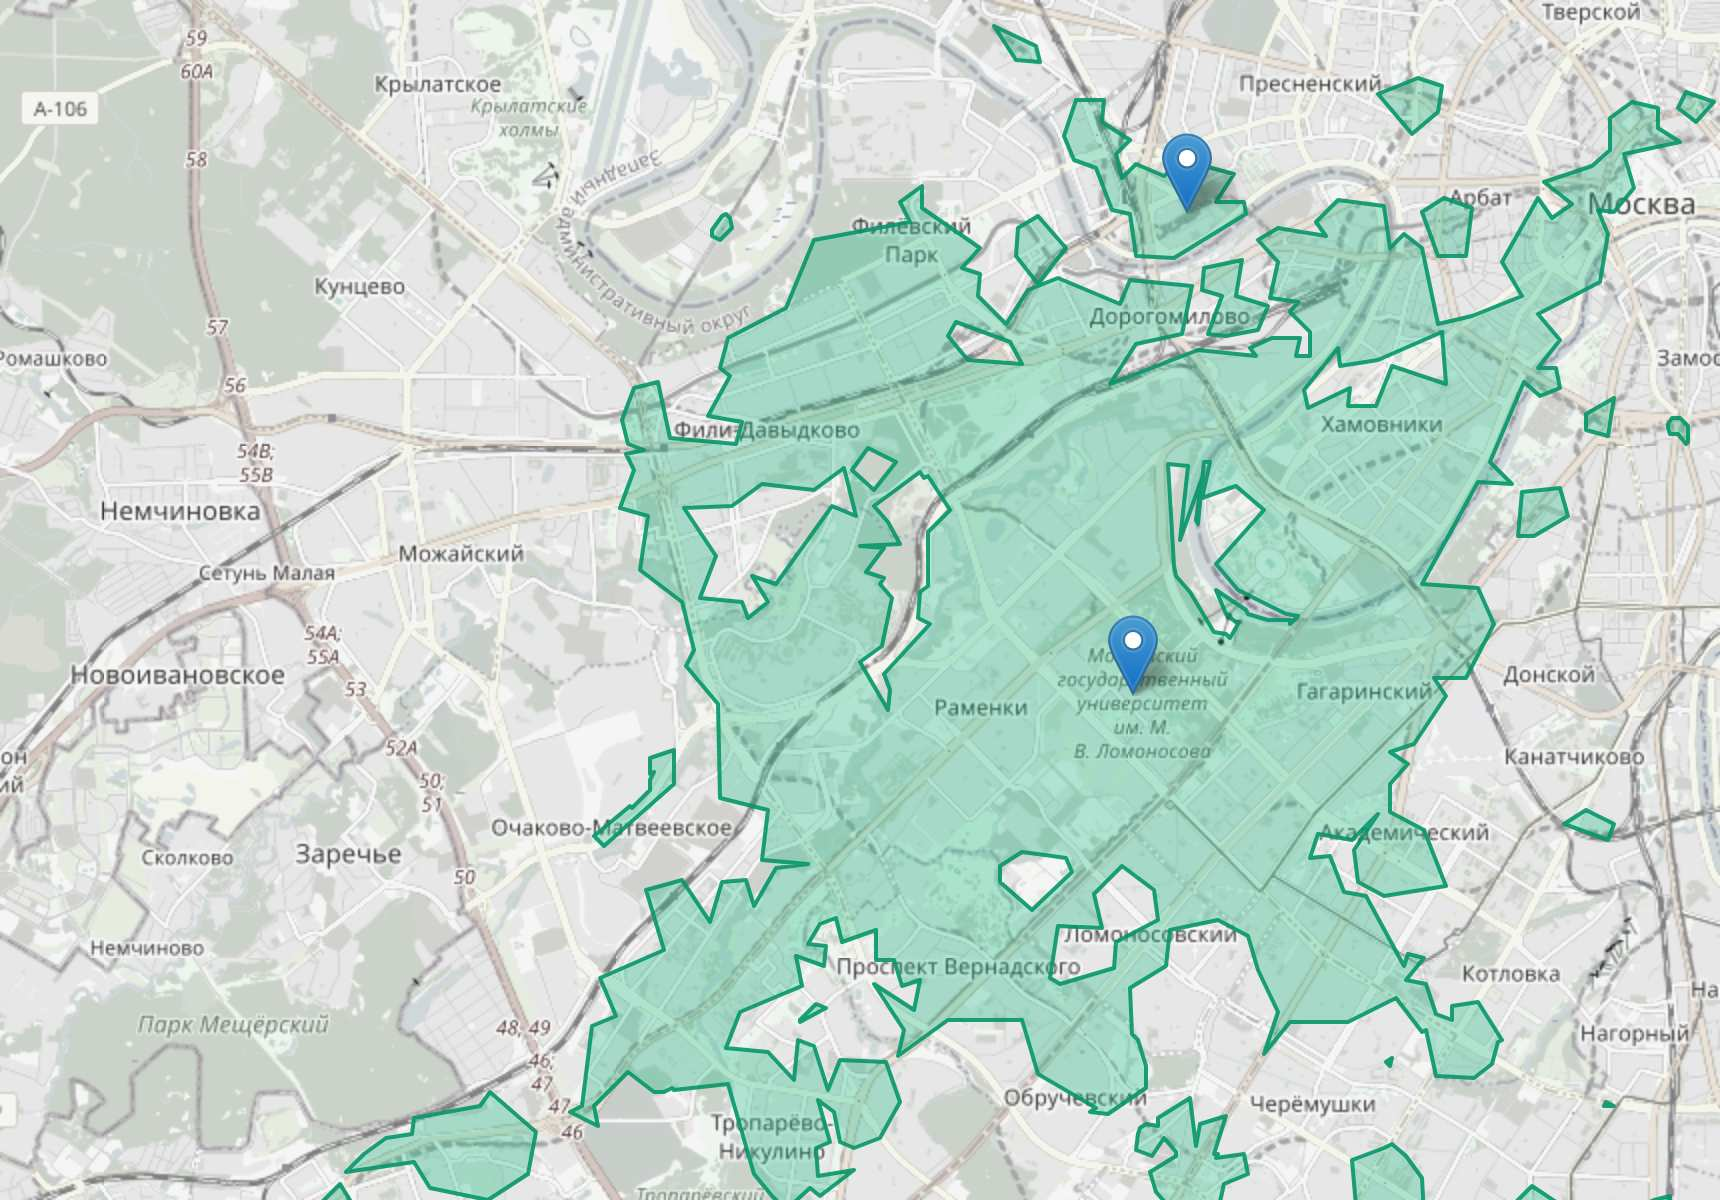
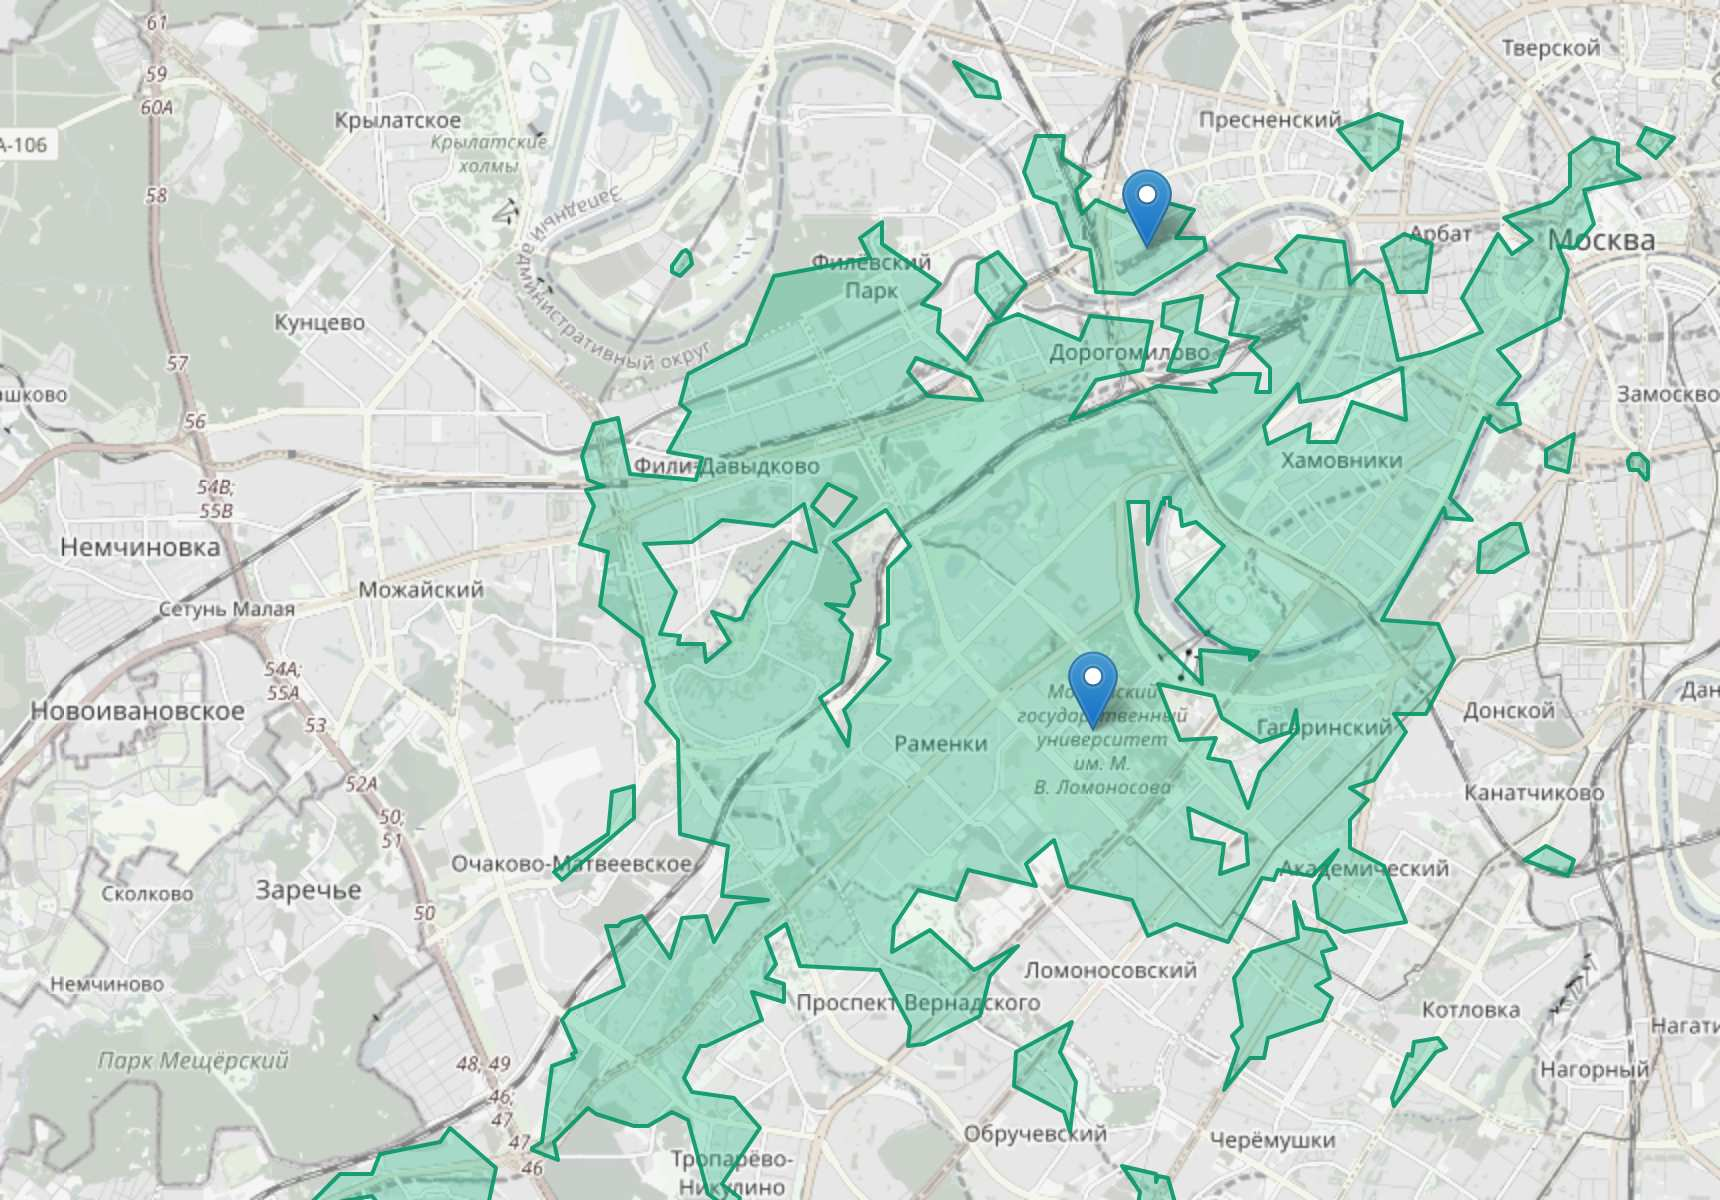
Say what the green area on the welcome screen actually means
The picture showed a green shape over Moscow with a caption naming two places
and no numbers. An area is only meaningful against a limit: without "by metro"
and "in 40 minutes" there is nothing to read it as, and the thing the service
sells — you set the time, we find where it holds — went unsaid on the one
screen most visitors will ever see.

Recaptured with both limits at a round 40 minutes by public transport so the
caption can state them plainly, and the alt text with them too. The numbers in
the text are the numbers the picture was calculated from.

The picture gives up a little height to fit the longer caption; the steps now
read in full on a phone without scrolling.

Verified at 1280x720, 731x855, 390x667 and 390x844: the button stays fully
visible at every size.

Claude-Session: https://claude.ai/code/session_01Wf67F3wno9Tkifk9oHLhDJ

diff --git a/client/src/components/onboarding.tsx b/client/src/components/onboarding.tsx
@@ -46,11 +46,11 @@ export function Onboarding({ open, onClose, onShowMethodology }: OnboardingProps
           src="/onboarding-result.jpg"
           width={1720}
           height={1200}
-          alt="Карта Москвы: зелёным отмечены районы, откуда можно вовремя добраться и до работы, и до учёбы."
+          alt="Карта Москвы: зелёным отмечены районы, из которых и до работы в Сити, и до МГУ можно доехать на метро за 40 минут."
           // Capped against the viewport, not just the dialog: on a short
           // screen the full-ratio picture pushed the button below the fold,
           // and a dialog that scrolls does not look like one that scrolls.
-          className="w-full aspect-[43/30] max-h-[32vh] object-cover bg-slate-100"
+          className="w-full aspect-[43/30] max-h-[28vh] object-cover bg-slate-100"
         />
 
         <div className="px-6 pt-4 text-center">
@@ -60,8 +60,9 @@ export function Onboarding({ open, onClose, onShowMethodology }: OnboardingProps
             Зелёное — районы, откуда вы везде успеваете
           </DialogTitle>
           <p className="text-sm text-slate-600 mt-2">
-            Здесь человек работает в Сити и учится в МГУ. Жильё ему стоит
-            искать в зелёном — оттуда он успевает и туда, и туда.
+            Здесь человек работает в Сити, учится в МГУ и ездит на метро.
+            Зелёным — откуда он доедет и туда, и туда{"\u00A0"}за 40 минут.
+            Там ему и стоит искать жильё.
           </p>
         </div>
 
